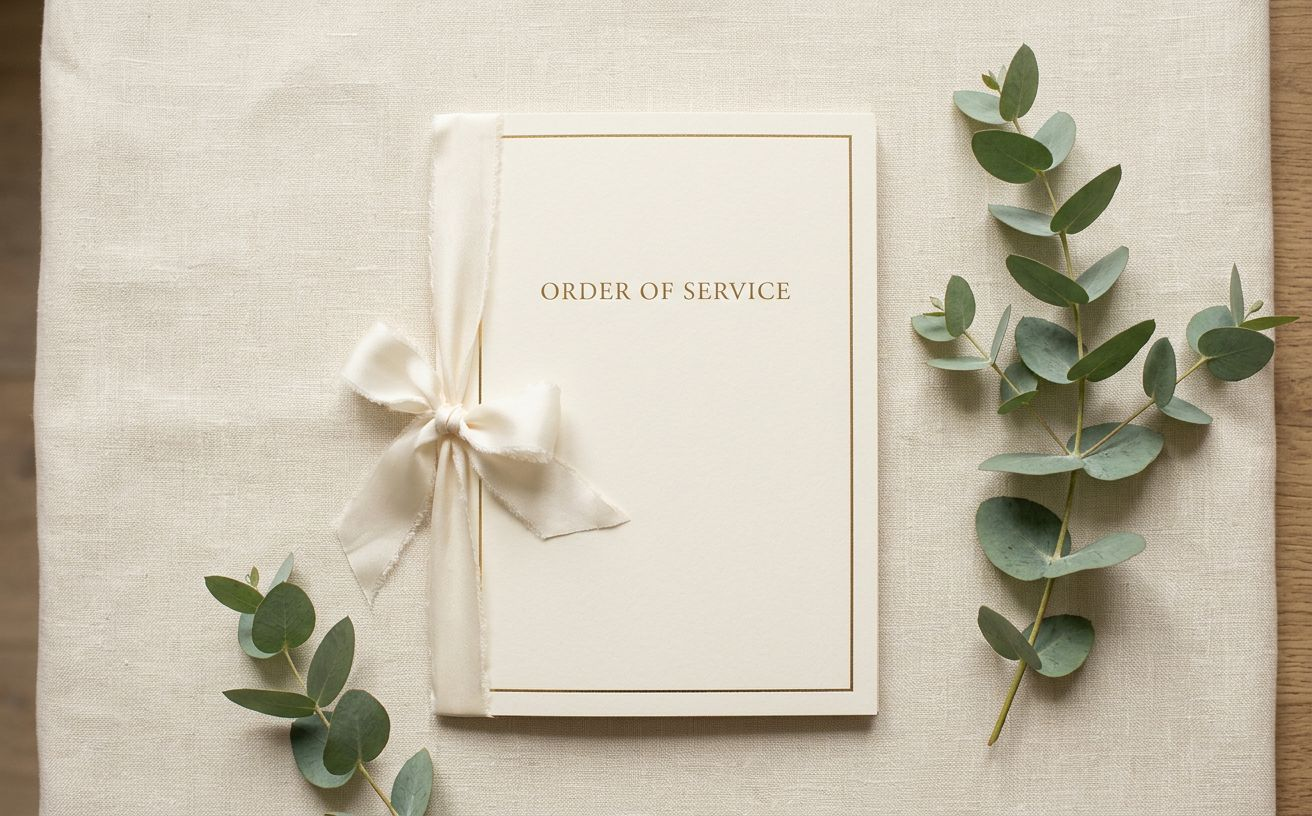
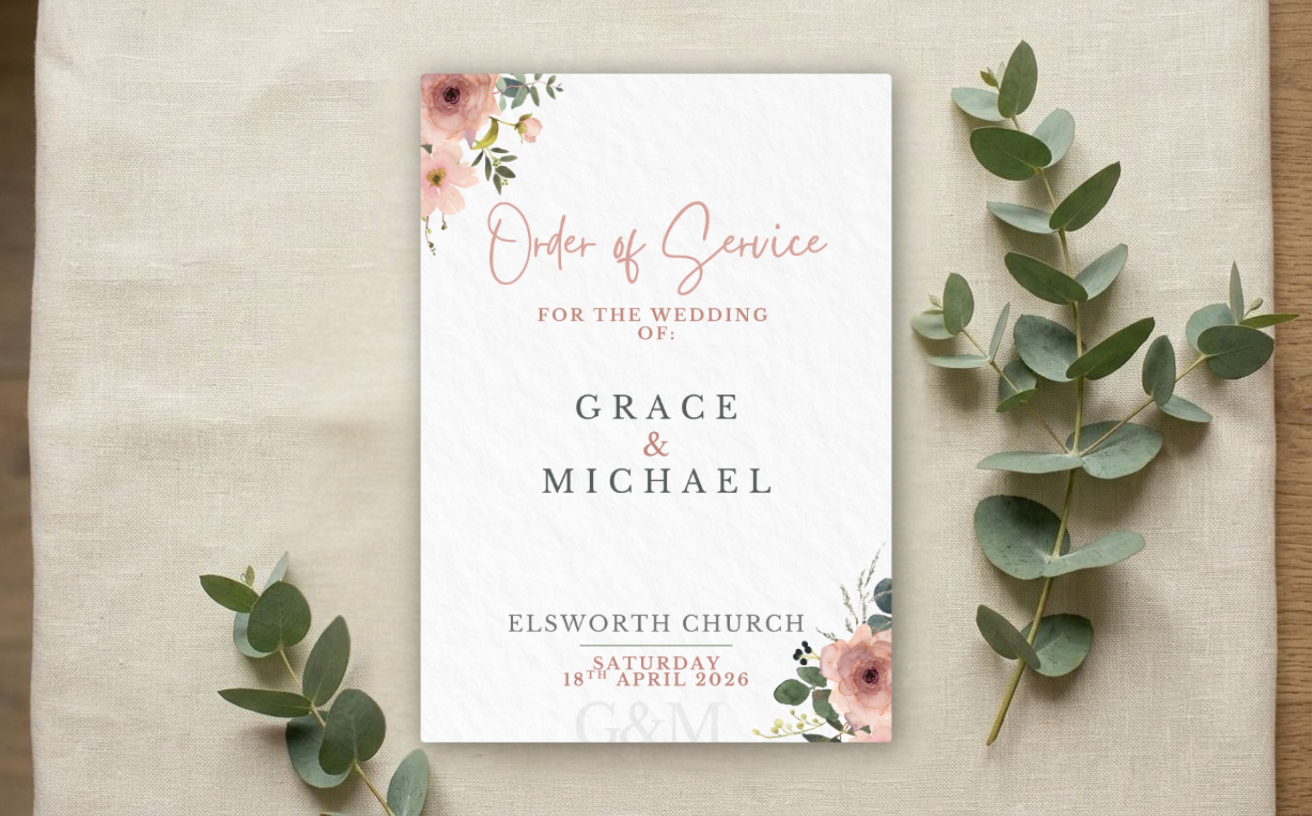
x

diff --git a/weddings/before-during-after.html b/weddings/before-during-after.html
@@ -162,7 +162,7 @@
  <div class="collections-grid">
  <article class="collection-card">
  <div class="collection-card-image">
- <img src="assets/images/day-menu-b.jpg" alt="Welcome signage" loading="lazy">
+ <img src="assets/images/signs3.jpg" alt="Welcome signage" loading="lazy">
  <span class="collection-card-number">01</span>
  </div>
  <div class="collection-card-content">
@@ -183,7 +183,7 @@
  </article>
  <article class="collection-card">
  <div class="collection-card-image">
- <img src="assets/images/table.jpg" alt="Table details" loading="lazy">
+ <img src="assets/images/table1.jpg" alt="Table details" loading="lazy">
  <span class="collection-card-number">02</span>
  </div>
  <div class="collection-card-content">
@@ -195,7 +195,7 @@
  </article>
  <article class="collection-card">
  <div class="collection-card-image">
- <img src="assets/images/bar.jpg" alt="Bar signage" loading="lazy">
+ <img src="assets/images/day-menu.jpg" alt="Bar signage" loading="lazy">
  <span class="collection-card-number">03</span>
  </div>
  <div class="collection-card-content">
@@ -243,7 +243,7 @@
   <div class="collections-grid">
   <article class="collection-card">
   <div class="collection-card-image">
-  <img src="assets/images/wax.jpg" alt="Wedding envelope stationery" loading="lazy">
+  <img src="assets/images/al2.jpg" alt="Wedding envelope stationery" loading="lazy">
   <span class="collection-card-number">01</span>
   </div>
   <div class="collection-card-content">
@@ -254,27 +254,16 @@
   </div>
   </article> <article class="collection-card">
   <div class="collection-card-image">
-  <img src="assets/images/personalised.jpg" alt="Wedding stationery wrap detail" loading="lazy">
+  <img src="assets/images/extras.jpg" alt="Wedding stationery wrap detail" loading="lazy">
   <span class="collection-card-number">02</span>
   </div>
   <div class="collection-card-content">
   <span class="section-label">Belly Bands & Wraps</span>
   <h3>Tie It Together.</h3>
   <p>Sometimes it's the simplest touch that pulls everything together — a wrap adds texture, personality and a sense of occasion</p>
-  <ul class="collection-mini-list"><li>Belly bands</li><li>Printed wraps</li><li>Personalised names or wording</li></ul>
+  <ul class="collection-mini-list"><li>Belly bands</li><li>Printed wraps</li><li>Personalised names or wording</li><li>Gift tags</li><li>Custom illustrations</li><li>Personalised stationery</li></ul></ul>
   </div>
-  </article> <article class="collection-card">
-  <div class="collection-card-image">
-  <img src="assets/images/extras.jpg" alt="Personalised wedding stationery" loading="lazy">
-  <span class="collection-card-number">03</span>
-  </div>
-  <div class="collection-card-content">
-  <span class="section-label">Personalised Extras</span>
-  <h3>Something Just For You.</h3>
-  <p>The small pieces that make it feel like yours — tags, notes, custom wording, illustrated details, whatever feels right.</p>
-  <ul class="collection-mini-list"><li>Gift tags</li><li>Custom illustrations</li><li>Personalised stationery</li></ul>
-  </div>
-  </article>
+  </article> 
  
   <div class="collections-details-content">
   <span class="section-label">Made To Match</span>
